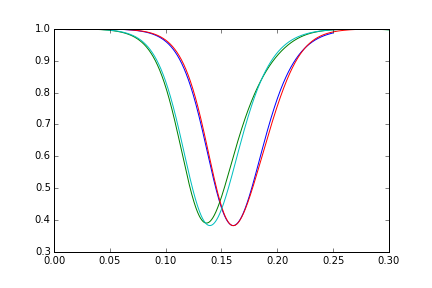
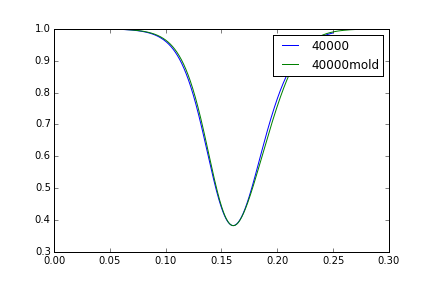
Fixed timestep

diff --git a/FockStateSimulation.py b/FockStateSimulation.py
@@ -208,7 +208,7 @@ if __name__ == '__main__':
     simulation_params = {
     'total_time': .25, #simulated time (s),
     'mag_time':0.015,
-    'dt':0.004e-3, #simulation time step,
+    'dt':0.002e-3, #simulation time step,
     'tauB' : 1e-3,
     #'c':36*2*np.pi,
     'c':-7.5*2*np.pi,
